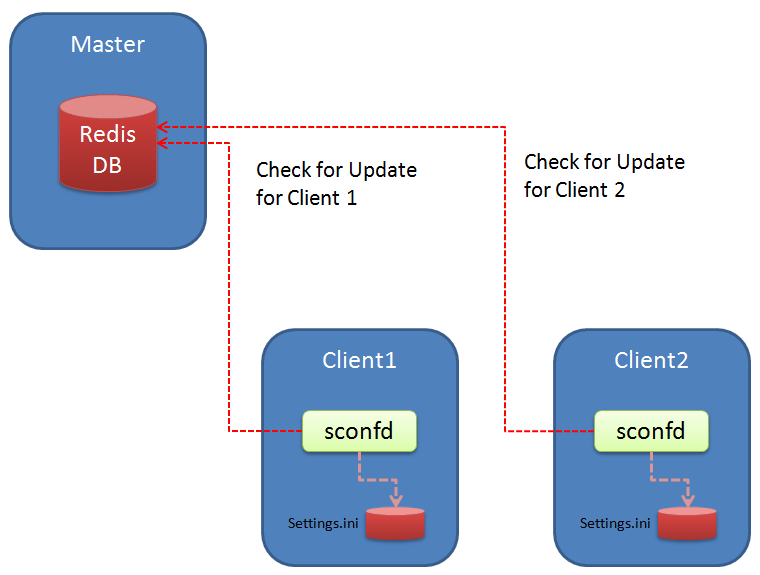
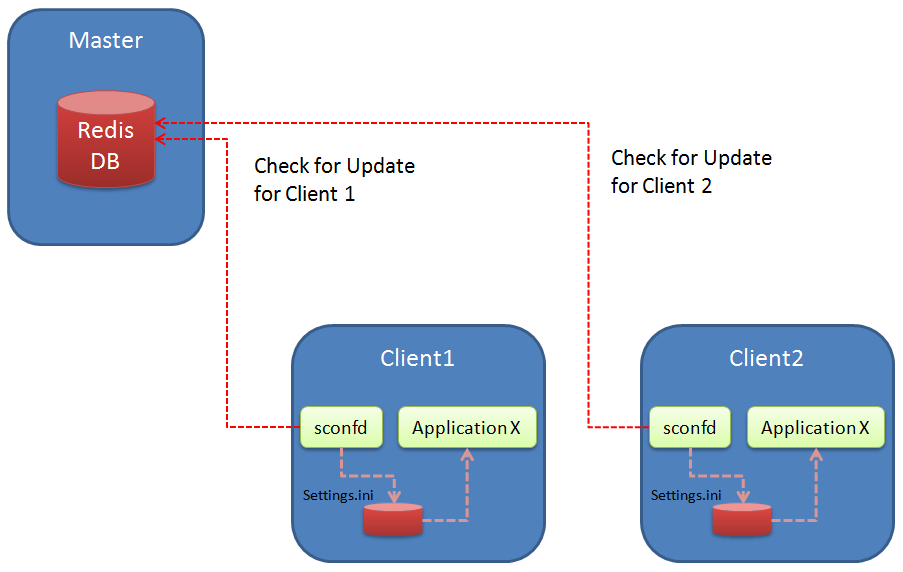
Updates to pictures and readme

diff --git a/README.md b/README.md
@@ -3,6 +3,8 @@
 Simple Configuration Daemon
 A small tool / script which should help save ini configuration files centrally in a redis database. The files and changes to them (within the database) are monitored from each client (could be a virtual machine, docker container, etc.) and if changes occur the files are respectevly updated within the client.
 
+Same result you may obtain using provisioning tools like puppet and/or chef, but I wanted to create a real lightweight and easy to customize tool.
+
 Usually an application needs a restart to apply changes within config files, this is not in scope of the tool yet.
 
 Usage: __python sconfd.py &lt;client_id&gt;__
@@ -31,7 +33,7 @@ __For the client configuration instances:__
            - content -> keys and their configuration values, if they differ from the template
 
 
-Example settings.ini:
+Given an example configuration file with some fake data -  settings.ini:
 
 ```
 server=192.0.2.62     
@@ -39,7 +41,7 @@ port=143
 file="payroll.dat"
 ```
 
-Example structure for the ini file above, 2 clients:
+Example structure in redis for the ini file if we use 2 clients:
 
 | Key Space     | Key          | Vale   | Description |
 | :------------- | :------------- | :----- | :----------- |
@@ -52,6 +54,15 @@ Example structure for the ini file above, 2 clients:
 | config:client2:settings.ini:meta  |   filepath | /home/user/myapp/config/settings.ini | target path where config file|
 | config:client2:settings.ini:content | server  | 192.0.2.64 | content of the ini file, overwrite default/template value   |
 |     | file  | "payroll2.dat" | content of the ini file, overwrite default/template value  |
+
+
+Screenshots of the structure:
+
+![Sample template](images/sample_template.png)
+
+The instance is overwriting the server IP config:
+
+![Sample template](images/sample_instance.png)
 
 Resulting settings.ini for client1:
 ```
